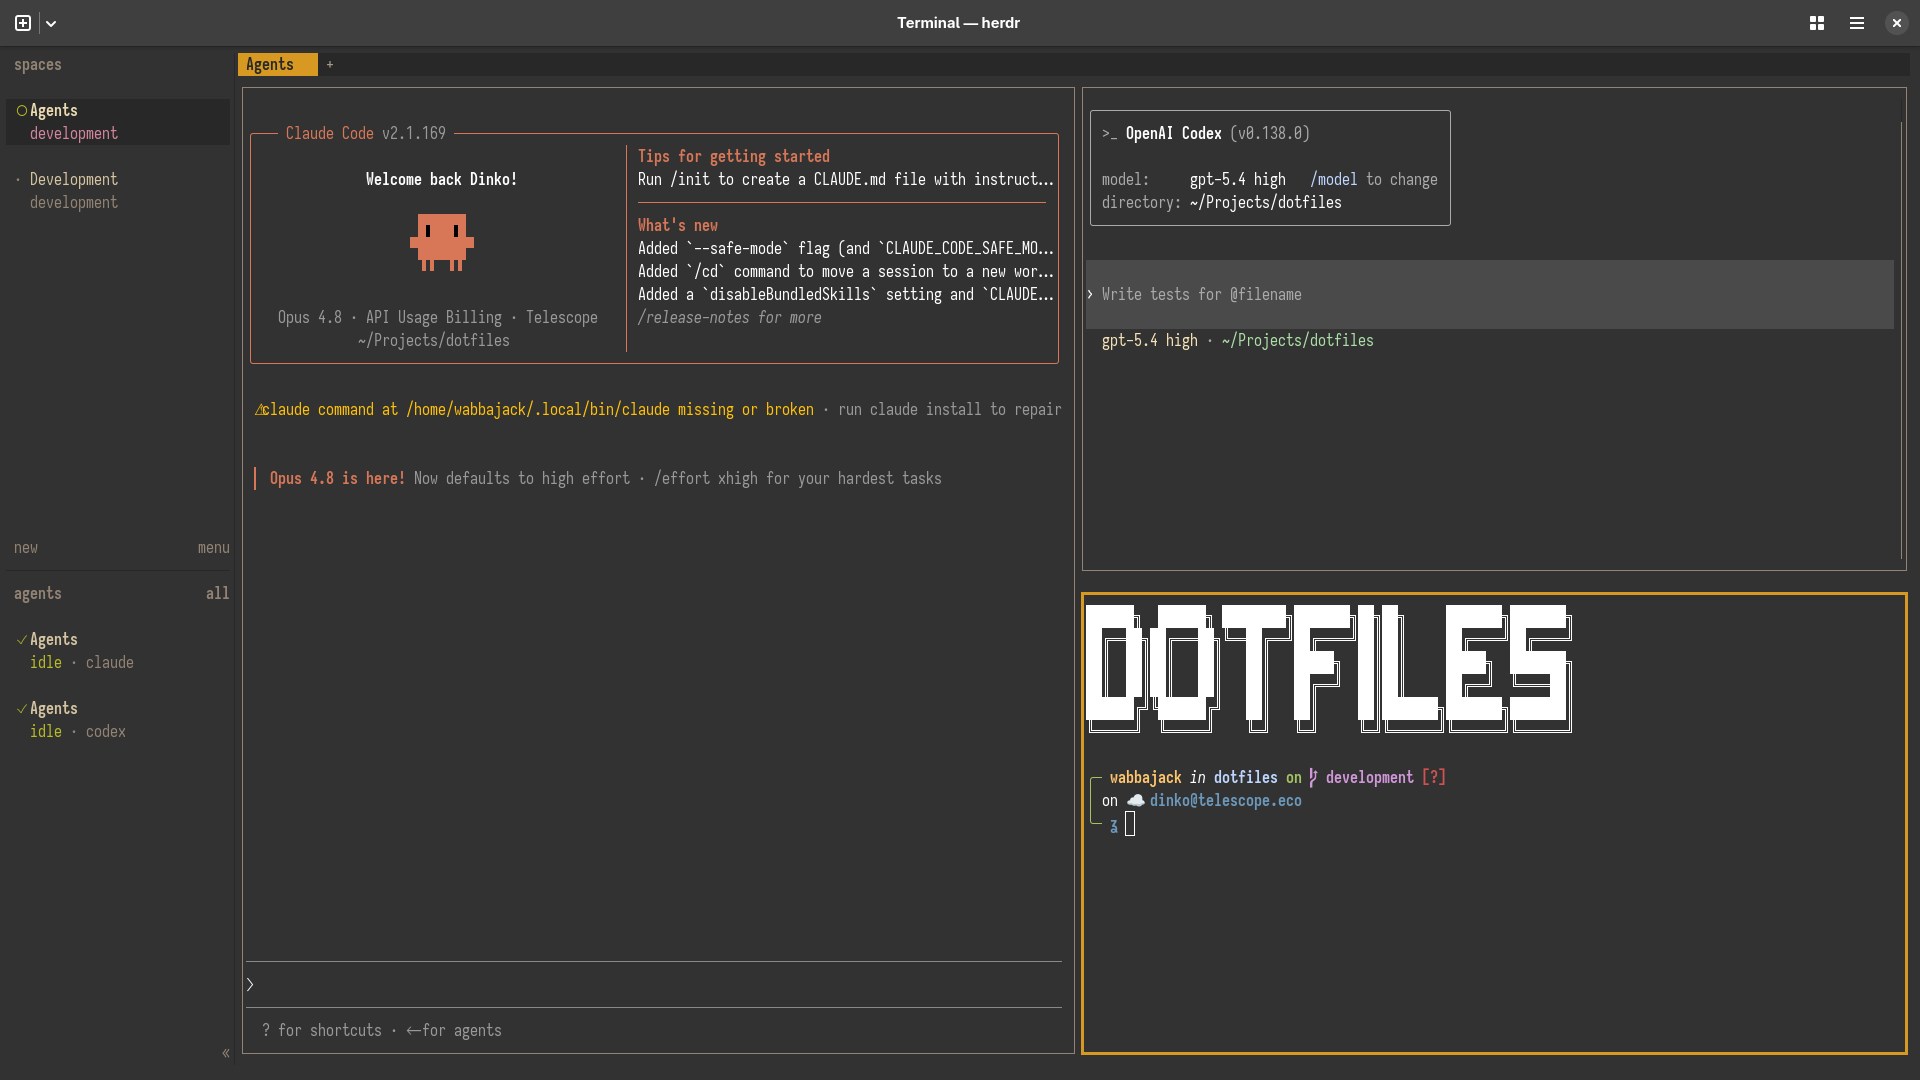
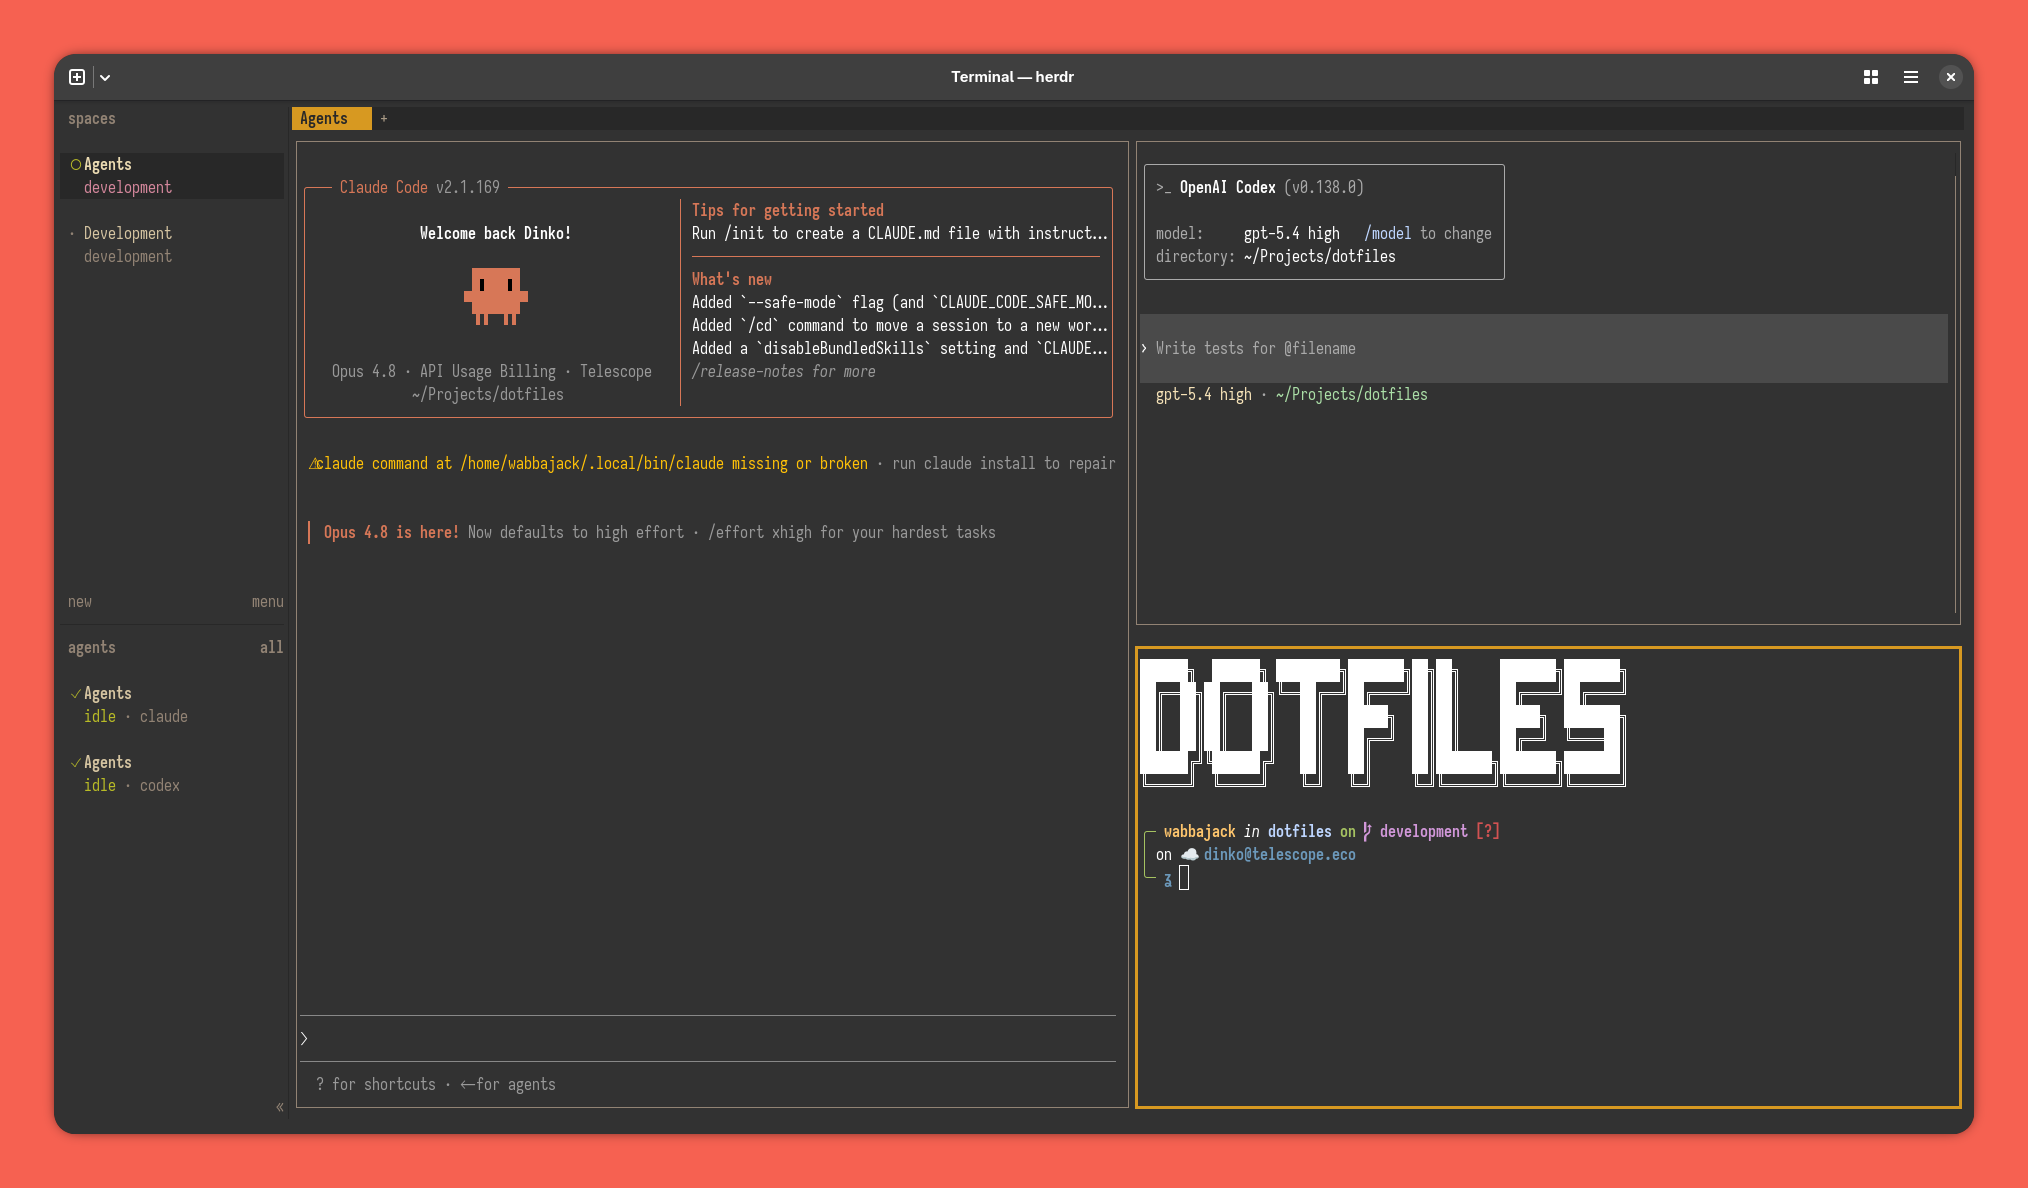
Update static assets

diff --git a/README.md b/README.md
@@ -1,12 +1,5 @@
 <div align="center">
-  <pre>
-██████╗  ██████╗ ████████╗███████╗██╗██╗     ███████╗███████╗
-██╔══██╗██╔═══██╗╚══██╔══╝██╔════╝██║██║     ██╔════╝██╔════╝
-██║  ██║██║   ██║   ██║   █████╗  ██║██║     █████╗  ███████╗
-██║  ██║██║   ██║   ██║   ██╔══╝  ██║██║     ██╔══╝  ╚════██║
-██████╔╝╚██████╔╝   ██║   ██║     ██║███████╗███████╗███████║
-╚═════╝  ╚═════╝    ╚═╝   ╚═╝     ╚═╝╚══════╝╚══════╝╚══════╝
-  </pre>
+  <img src=".github/assets/dotfiles-wallpaper.png" alt="Dotfiles Figlet Font" width="100%" />
   <p>
     This repository is the working surface behind my daily machine setup:
     a curated editor, reproducible tooling, opinionated defaults, and a bootstrap flow
@@ -40,7 +33,7 @@
       The primary editor, tuned for a cleaner UI, light theme bias, and built-in AI tooling.
     </td>
     <td valign="top" width="33%">
-      <strong>Mise</strong><br />
+      <strong>Mise</strong>
       <img src=".github/assets/mise-logo.svg" alt="Mise logo" height="26" /><br />
       The runtime and tool manager that keeps core CLI dependencies reproducible across machines.
     </td>
@@ -84,4 +77,4 @@ The fastest way to apply the setup is:
 ./bootstrap.sh
 ```
 
-That entrypoint walks the shell scripts in [`scripts/`](scripts/) and applies the managed setup step by step.
+That entrypoint walks the shell scripts in [`scripts/`](scripts/) and applies the managed setup step by step. Tested on Fedora 44.
